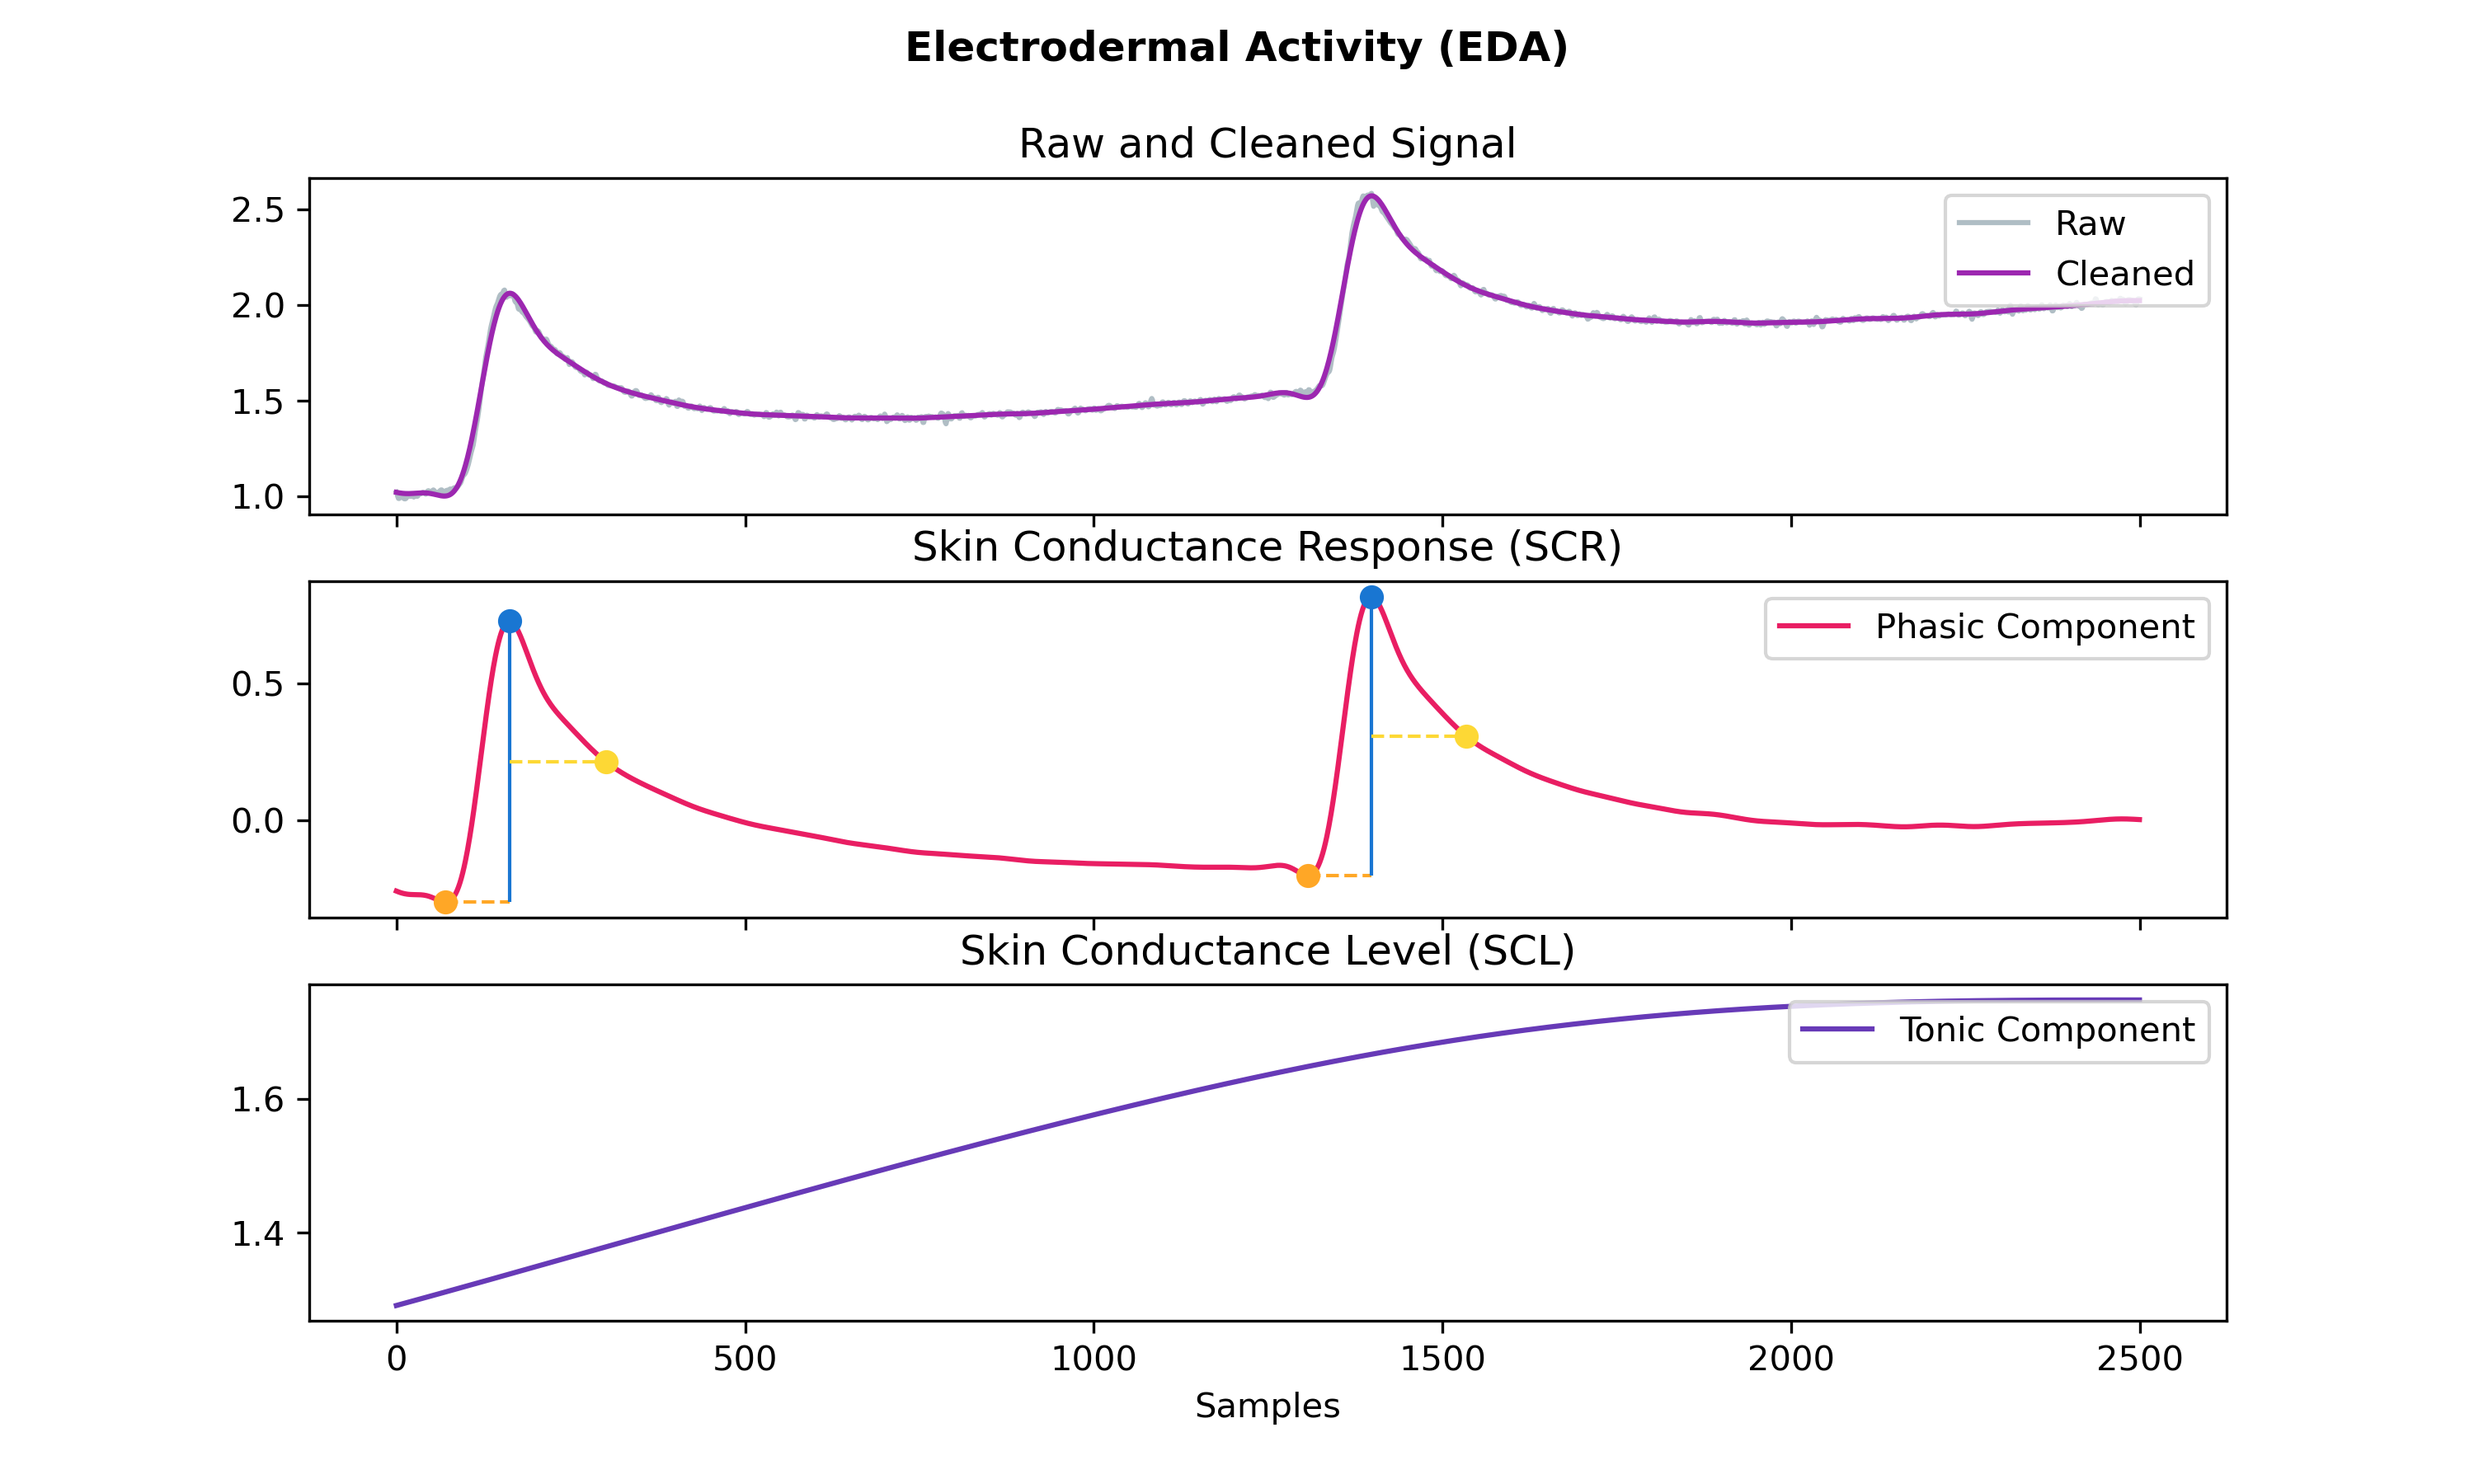
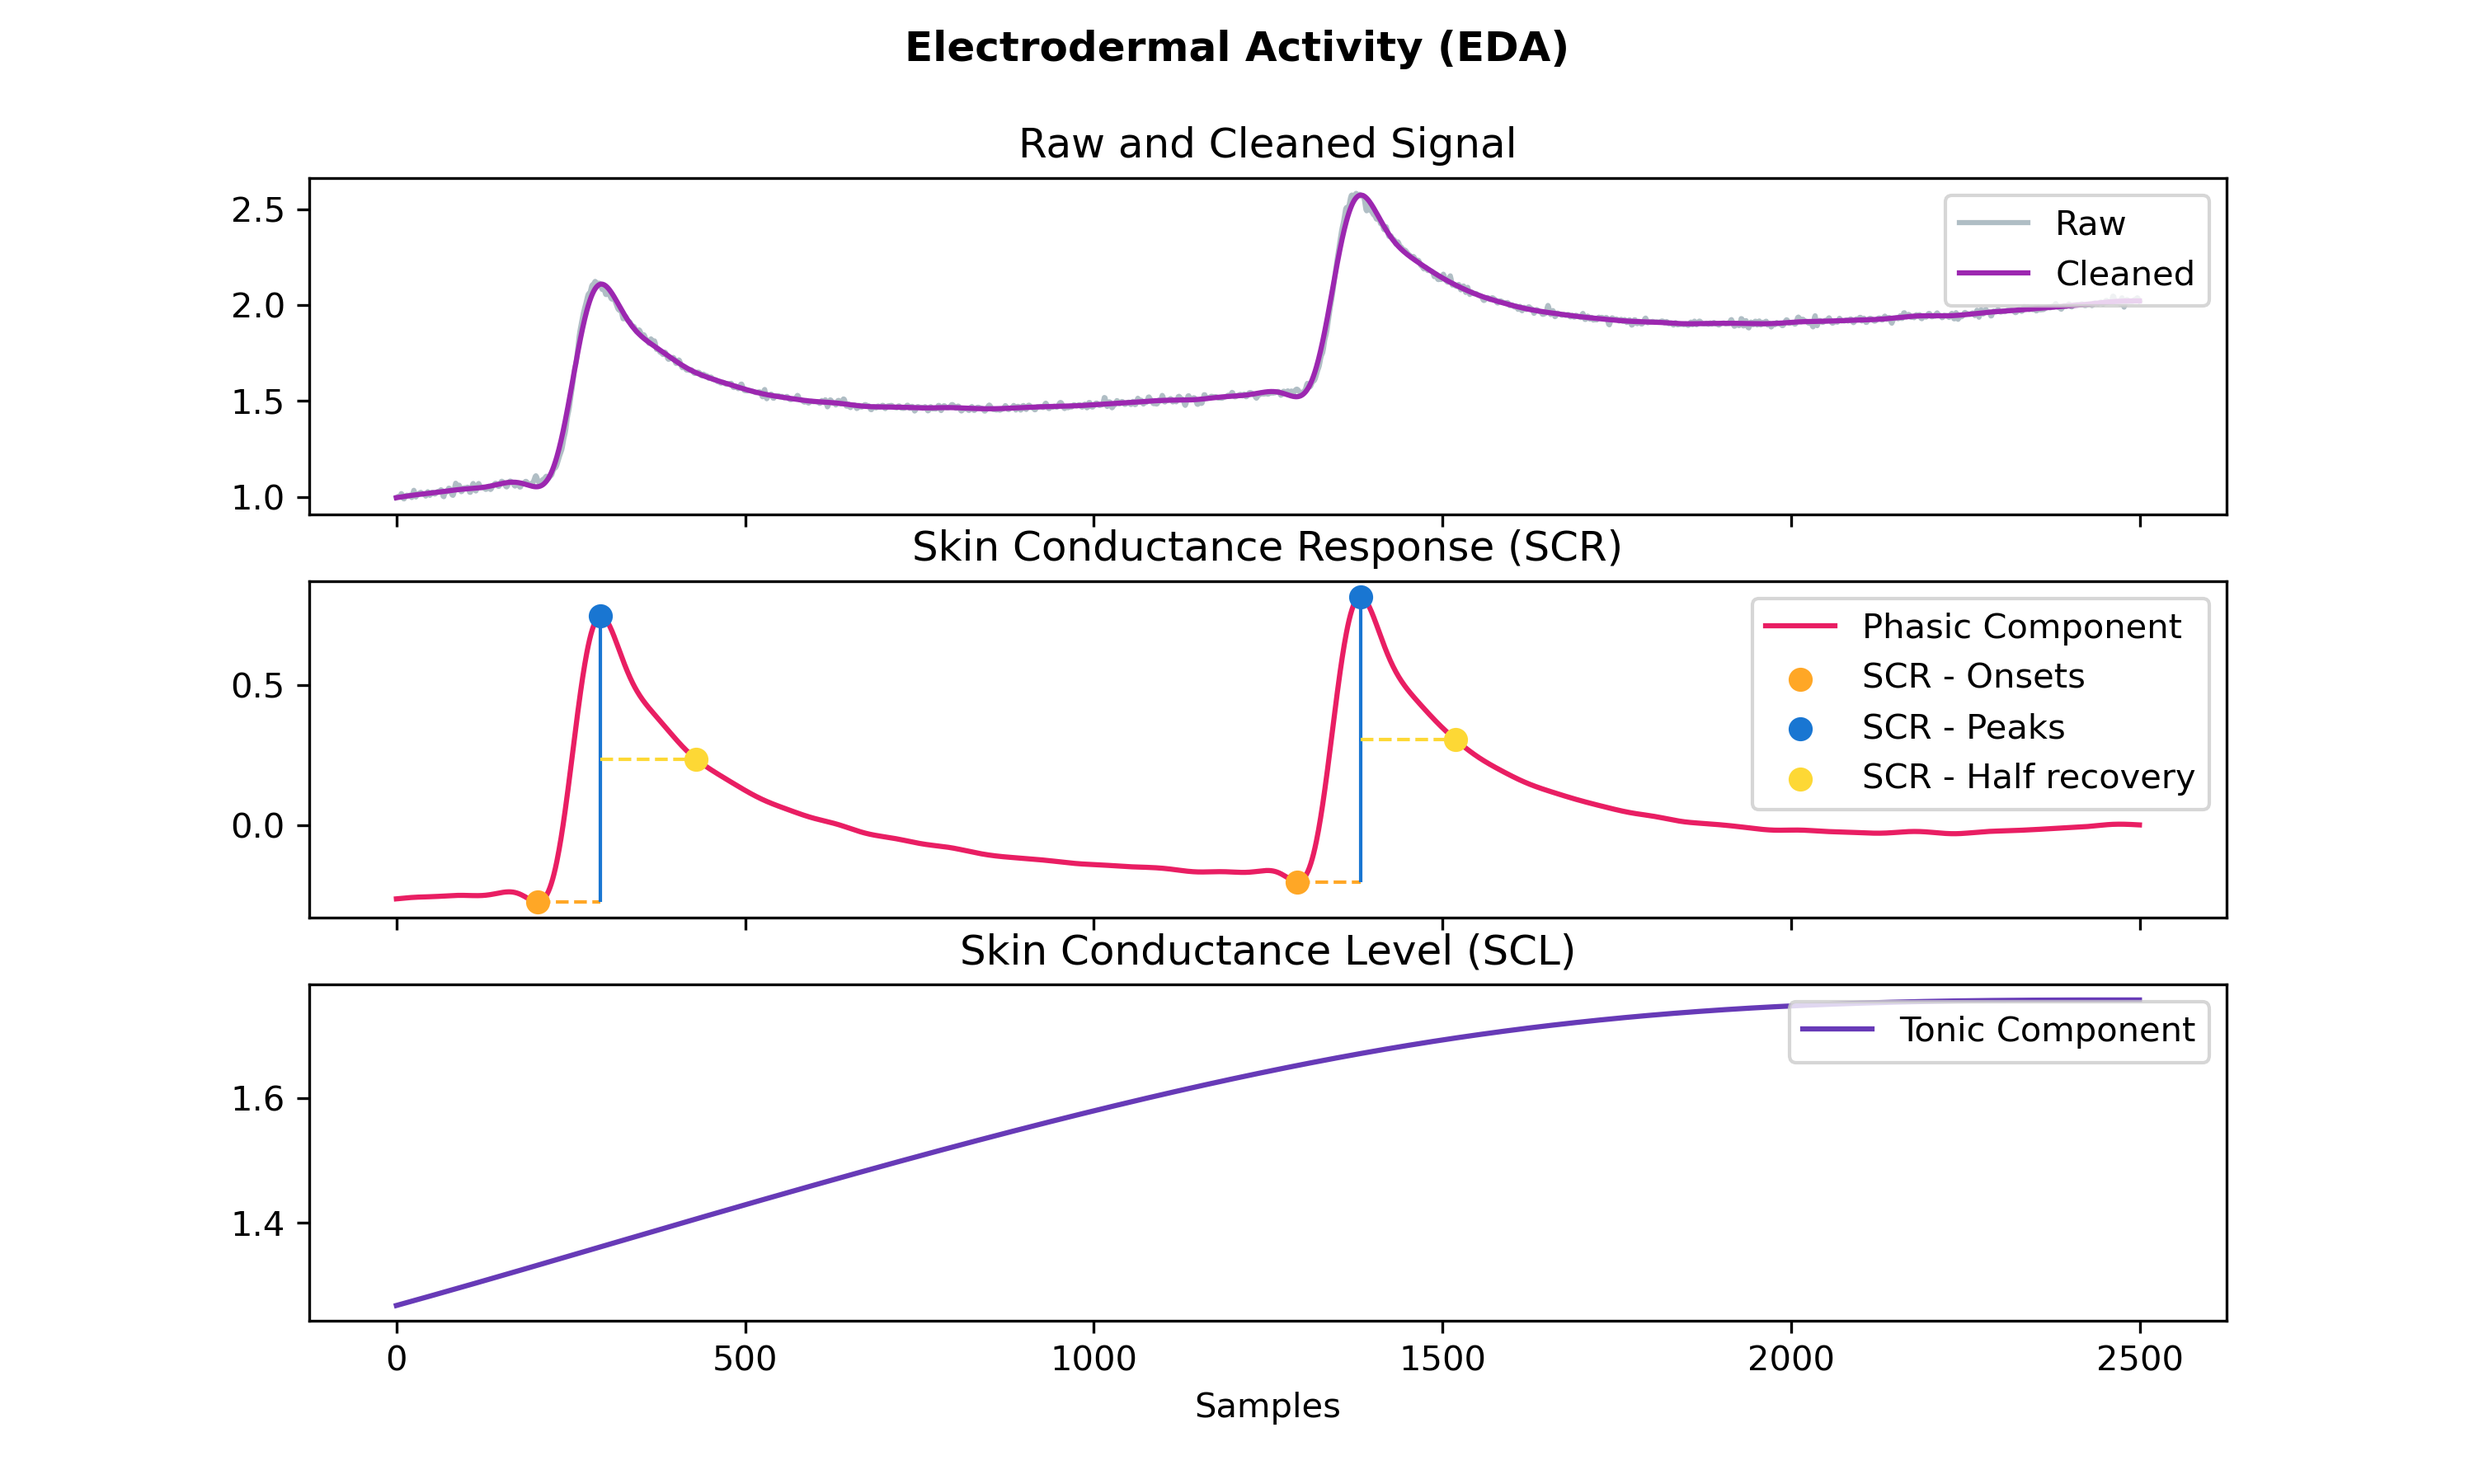
fix eda plot legend

diff --git a/neurokit2/eda/eda_plot.py b/neurokit2/eda/eda_plot.py
@@ -58,15 +58,16 @@ def eda_plot(eda_signals, sampling_rate=None):
     ax1.set_title("Skin Conductance Response (SCR)")
     # Plot Phasic.
     ax1.plot(x_axis, eda_signals["EDA_Phasic"], color='#E91E63', label='Phasic Component', linewidth=1.5, zorder=1)
-    ax1.legend(loc='upper right')
+
     # Mark segments.
-    risetime_coord, amplitude_coord, halfr_coord = _eda_plot_segments(eda_signals, ax1, x_axis, onsets, peaks, half_recovery)
+    risetime_coord, amplitude_coord, halfr_coord = _eda_plot_dashedsegments(eda_signals, ax1, x_axis, onsets, peaks, half_recovery)
     risetime = matplotlib.collections.LineCollection(risetime_coord, colors='#FFA726', linewidths=1, linestyle='dashed')
     ax1.add_collection(risetime)
     amplitude = matplotlib.collections.LineCollection(amplitude_coord, colors='#1976D2', linewidths=1, linestyle='solid')
     ax1.add_collection(amplitude)
     halfr = matplotlib.collections.LineCollection(halfr_coord, colors='#FDD835', linewidths=1, linestyle='dashed')
     ax1.add_collection(halfr)
+    ax1.legend(loc='upper right')
 
 
 
@@ -84,11 +85,11 @@ def eda_plot(eda_signals, sampling_rate=None):
 # =============================================================================
 # Internals
 # =============================================================================
-def _eda_plot_segments(eda_signals, ax, x_axis, onsets, peaks, half_recovery):
+def _eda_plot_dashedsegments(eda_signals, ax, x_axis, onsets, peaks, half_recovery):
     # Mark onsets, peaks, and half-recovery.
     scat_onset = ax.scatter(x_axis[onsets], eda_signals["EDA_Phasic"][onsets], color='#FFA726', label="SCR - Onsets", zorder=2)
     scat_peak = ax.scatter(x_axis[peaks], eda_signals["EDA_Phasic"][peaks], color='#1976D2', label="SCR - Peaks", zorder=2)
-    scat_halfr = ax.scatter(x_axis[half_recovery], eda_signals["EDA_Phasic"][half_recovery], color='#FDD835', label='SCR - Half-Recovery', zorder=2)
+    scat_halfr = ax.scatter(x_axis[half_recovery], eda_signals["EDA_Phasic"][half_recovery], color='#FDD835', label='SCR - Half recovery', zorder=2)
     end_onset = pd.Series(eda_signals["EDA_Phasic"][onsets].values, eda_signals["EDA_Phasic"][peaks].index)
     scat_endonset = ax.scatter(end_onset.index, end_onset.values, alpha=0)
 

diff --git a/docs/img/README_examples.py b/docs/img/README_examples.py
@@ -1,6 +1,6 @@
 import numpy as np
 import pandas as pd
-import neurokit2 as nk
+#import neurokit2 as nk
 
 
 # =============================================================================
